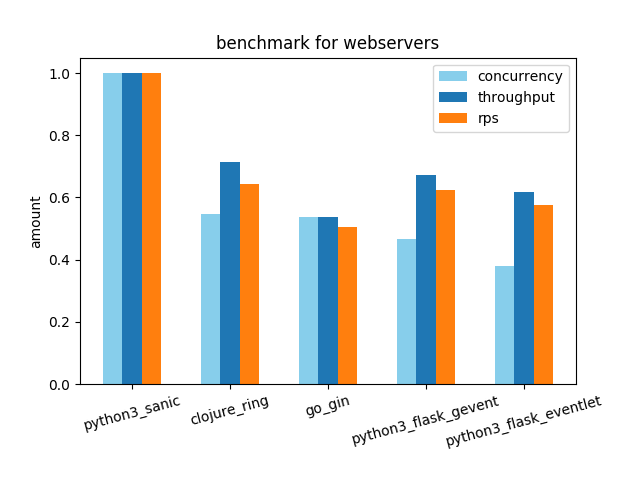
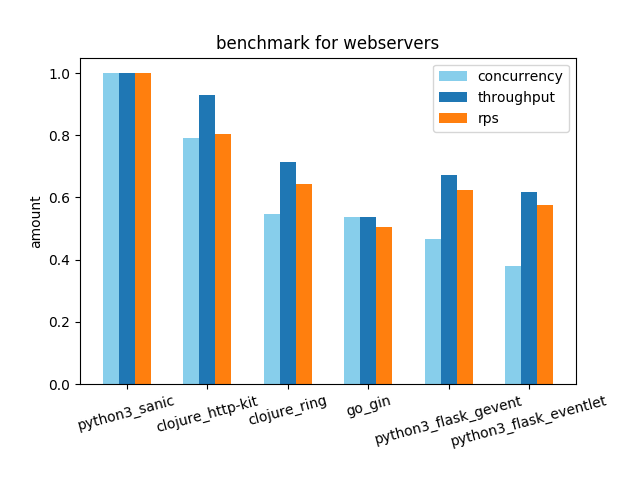
add http-kit

Changed region(s): [[0.125, 0.1562, 0.9688, 0.9375]]

diff --git a/gen_graph.py b/gen_graph.py
@@ -10,6 +10,11 @@ data = {
         'concurrency': 273652,
         'throughput': 9.29,
         'rps': 4293.75
+    },
+    'http-kit': {
+        'concurrency': 395016,
+        'throughput': 12.11,
+        'rps': 5349.35
     }},
     'go': {'gin': {
         'concurrency': 268529,
